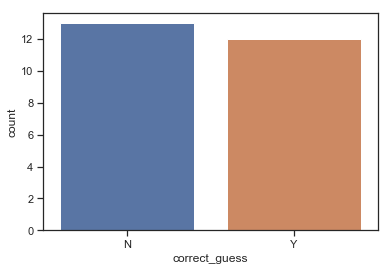
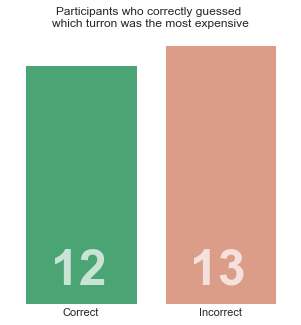
correct_guess add better styling

diff --git a/analysis.py b/analysis.py
@@ -489,8 +489,37 @@ print(format_for_sankeymatic(sankey_data))
 
 #%%
 def guess_rate(df):
+    df = df.copy()
+    rename_values = lambda x: 'Correct' if x['correct_guess'] == 'Y' else 'Incorrect'
+    df['correct_guess'] = df.apply(rename_values, axis=1)
+
     fig, ax = plt.subplots()
-    sns.countplot(x='correct_guess', data=df)
+    sns.countplot(
+        x='correct_guess',
+        data=df,
+        order=['Correct', 'Incorrect'],
+        palette={
+            'Incorrect': 'darksalmon',
+            'Correct': 'mediumseagreen',
+        },
+    )
+
+
+    plt.title(f'Participants who correctly guessed \nwhich turron was the most expensive')
+    ax.spines['right'].set_visible(False)
+    ax.spines['top'].set_visible(False)
+    ax.spines['left'].set_visible(False)
+    ax.spines['bottom'].set_visible(False)
+    # ax.get_yaxis().set_visible(False)
+    plt.grid(color='lightgray', linestyle=':', linewidth=1, axis='y')
+    ax.yaxis.set_ticks([])
+    ax.text(0 - 0.215, 1, "12", alpha=0.7, color='white', fontsize=50, fontweight='bold')
+    ax.text(1 - 0.215, 1, "13", alpha=0.7, color='white', fontsize=50, fontweight='bold')
+    ax.tick_params(length=0)
+    ax.yaxis.label.set_visible(False)
+    ax.xaxis.label.set_visible(False)
+    fig.set_size_inches(5, 5, forward=True)
+
     return fig, ax
 fig, ax = guess_rate(df)
 fig.savefig("results/guess_rate.png", facecolor=fig.get_facecolor(), bbox_inches='tight')
